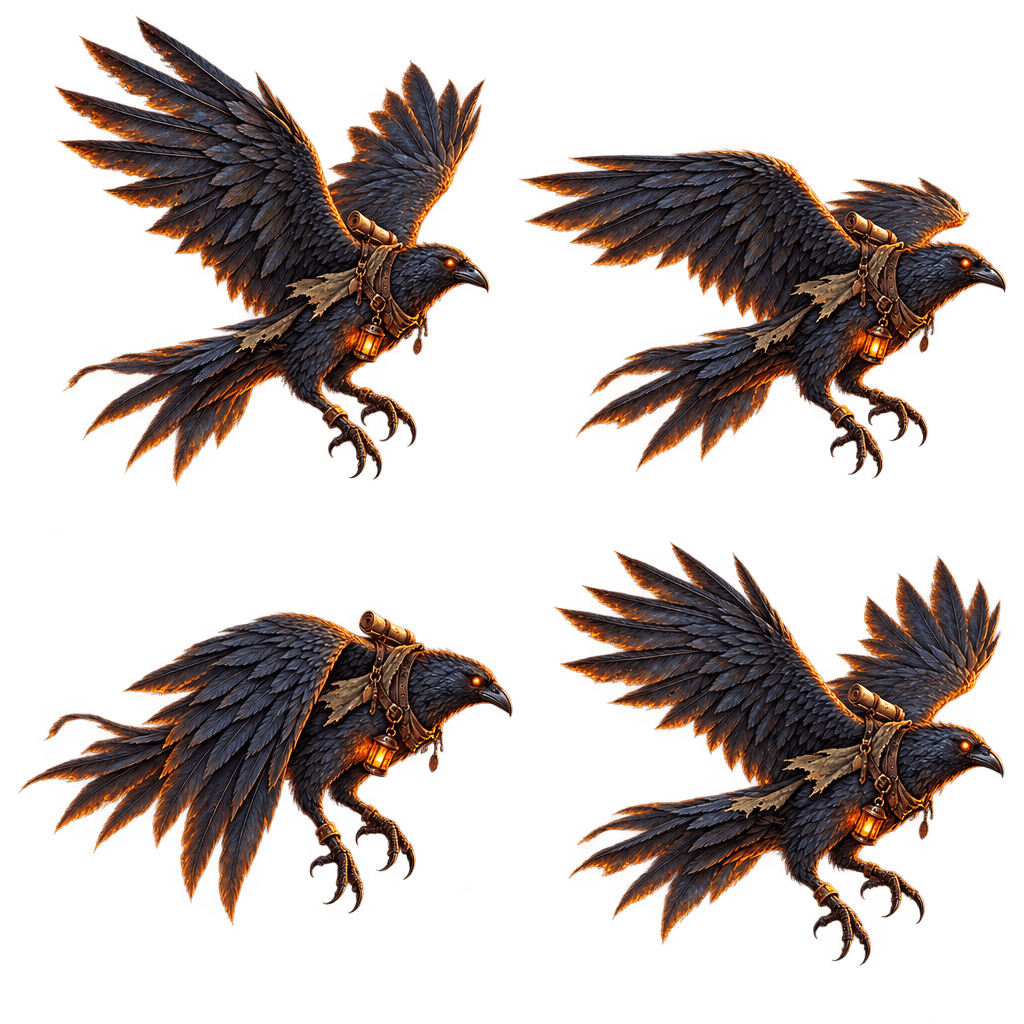
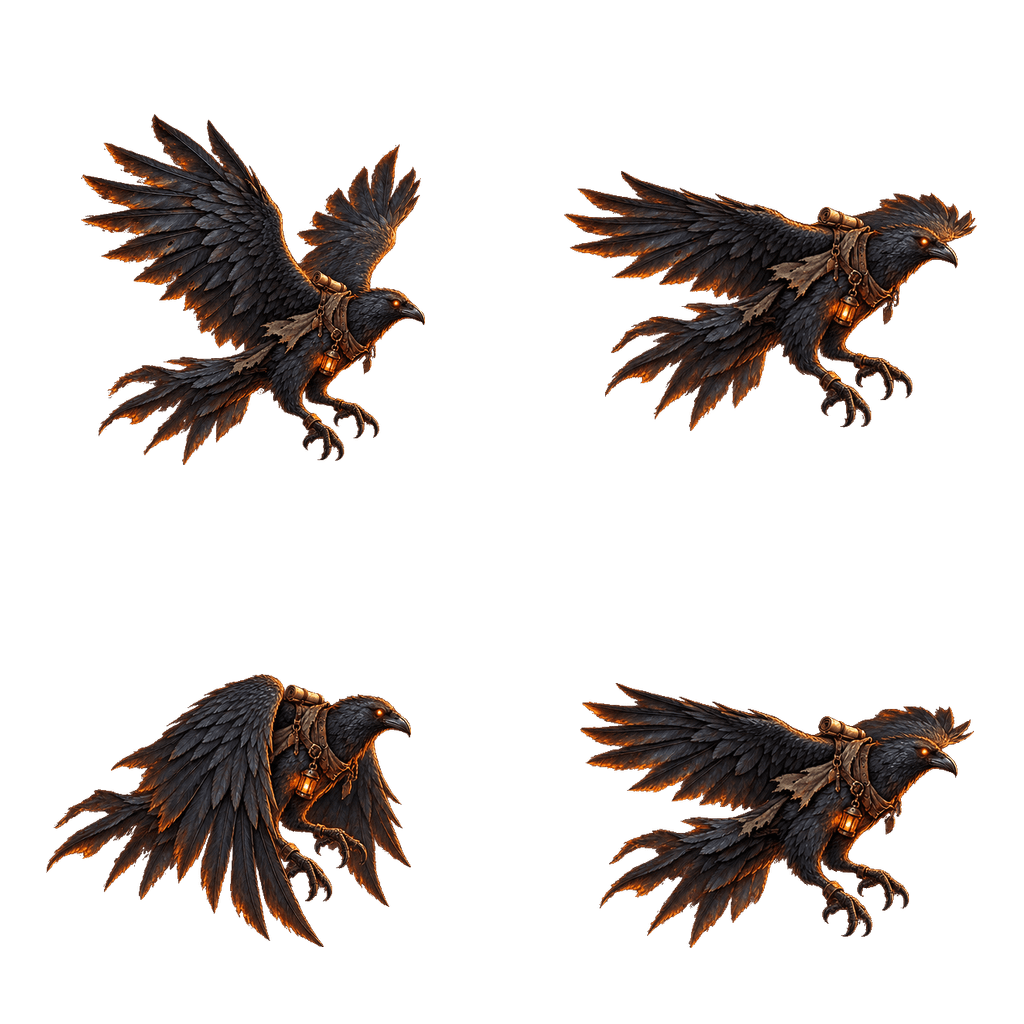
인피니티 1~10 새 그림 납품: 1~5 걷기 시트 재생성(보행 주기) · 6~9 한 장 분할 · 10 보스 역병 쥐왕 · 날것은 무게중심 기준 · 보스 크기
OpenAI 이미지 API(gpt-image-2)로 7장 생성 — 1~5 는 정지컷을 참조로 걷기 시트만 다시 뽑아 접지→통과→접지→통과
주기가 나왔고, 6~9 는 세로 한 장(4행×4열)에서 tools/sheet-split 로 나눴으며, 10 은 보스 정지컷. 이미지 출력 11,908 토큰.

- casual/enemies/inf: w001~005 걷기 시트 교체(안정화·경계 조각 제거·256색), w006~009 시트+정지컷 추가
- casual/bosses/inf/b010.png 추가, content.js INF_ART_READY = [1..10], artSizeBoss(S 96·M 108·L 120)
- game.js: 보스 새 그림은 artSizeBoss 로, 날것(move air)은 발끝 대신 무게중심 y 로 안정화(anchor)
- tools: sheet-check --anchor, sheet-split 이 content.js 로 날것 자동 판별, twoPose 는 참고 표시(정상 주기도 1≈3·2≈4),
  walk-jitter 가 날것은 무게중심 편차를 봄. README·ART-PROMPTS §6 납품 2차 기록.

검증: walk-jitter 9시트 발/무게중심 편차 0~1px, inf-art-check 1~11(새 이름·시트·보스 120px), single-smoke 실패 0.

Claude-Session: https://claude.ai/code/session_018SMyU9qspEeyGVwUHuNaor

diff --git a/game.js b/game.js
@@ -885,7 +885,7 @@ function processSheet(img, opt) {
     if (opt && opt.stabilize) for (const [cx, cy] of cells) dropEdgeFragments(id, cv.width, cx, cy, fw, fh);
     g.putImageData(id, 0, 0);
     const stats = cells.map(([cx, cy]) => cellStats(id, cv.width, cx, cy, fw, fh));
-    if (opt && opt.stabilize && stats.every(s => s.n > 0)) return stabilizeCells(cv, cells, stats, fw, fh);
+    if (opt && opt.stabilize && stats.every(s => s.n > 0)) return stabilizeCells(cv, cells, stats, fw, fh, opt.anchor);
     let u = null;
     for (const s of stats) {
       const local = { x: s.x0 - s.cx, y: s.y0 - s.cy, w: s.x1 - s.x0, h: s.y1 - s.y0 };
@@ -943,24 +943,26 @@ function dropEdgeFragments(id, W, cx, cy, fw, fh) {
 // 칸 하나의 실루엣 통계 (시트 좌표, x1·y1 배타): 바운딩박스 · 픽셀 수 n · 무게중심 mx. α>28 을 실루엣으로 본다 (bbox 와 같은 기준).
 function cellStats(id, W, cx, cy, fw, fh) {
   const d = id.data;
-  let x0 = Infinity, y0 = Infinity, x1 = -Infinity, y1 = -Infinity, n = 0, sx = 0;
+  let x0 = Infinity, y0 = Infinity, x1 = -Infinity, y1 = -Infinity, n = 0, sx = 0, sy = 0;
   const X0 = Math.floor(cx), Y0 = Math.floor(cy), X1 = Math.floor(cx + fw), Y1 = Math.floor(cy + fh);
   for (let y = Y0; y < Y1; y++) for (let x = X0; x < X1; x++) {
     if (d[(y * W + x) * 4 + 3] <= 28) continue;
-    n++; sx += x;
+    n++; sx += x; sy += y;
     if (x < x0) x0 = x; if (x + 1 > x1) x1 = x + 1; if (y < y0) y0 = y; if (y + 1 > y1) y1 = y + 1;
   }
-  if (!n) return { cx, cy, x0: X0, y0: Y0, x1: X1, y1: Y1, n: 0, mx: cx + fw / 2 };
-  return { cx, cy, x0, y0, x1, y1, n, mx: sx / n };
+  if (!n) return { cx, cy, x0: X0, y0: Y0, x1: X1, y1: Y1, n: 0, mx: cx + fw / 2, my: cy + fh / 2 };
+  return { cx, cy, x0, y0, x1, y1, n, mx: sx / n, my: sy / n };
 }
 
-function stabilizeCells(cv, cells, stats, fw, fh) {
+// anchor 'foot'(기본) = 발끝을 바닥선에 · 'center' = 무게중심 y 를 맞춤 (날것: 날개가 내려간 칸은 맨 아래가 날개 끝이라 발 기준이면 몸이 튄다)
+function stabilizeCells(cv, cells, stats, fw, fh, anchor) {
   const median = (a) => { const s = a.slice().sort((p, q) => p - q); return s[Math.floor((s.length - 1) / 2)]; };
   const area = median(stats.map(s => s.n));
   const sc = stats.map(s => Math.min(1.15, Math.max(0.87, Math.sqrt(area / s.n))));   // 실루엣 넓이 기준 크기 보정 (±15% 안)
-  const local = stats.map((s, i) => ({ x0: (s.x0 - s.cx) * sc[i], y0: (s.y0 - s.cy) * sc[i], x1: (s.x1 - s.cx) * sc[i], y1: (s.y1 - s.cy) * sc[i], mx: (s.mx - s.cx) * sc[i] }));
-  const foot = median(local.map(l => l.y1)), axis = median(local.map(l => l.mx));
-  const dx = local.map(l => axis - l.mx), dy = local.map(l => foot - l.y1);
+  const local = stats.map((s, i) => ({ x0: (s.x0 - s.cx) * sc[i], y0: (s.y0 - s.cy) * sc[i], x1: (s.x1 - s.cx) * sc[i], y1: (s.y1 - s.cy) * sc[i], mx: (s.mx - s.cx) * sc[i], my: (s.my - s.cy) * sc[i] }));
+  const ay = (l) => (anchor === 'center' ? l.my : l.y1);
+  const foot = median(local.map(ay)), axis = median(local.map(l => l.mx));
+  const dx = local.map(l => axis - l.mx), dy = local.map(l => foot - ay(l));
   let ux0 = Infinity, uy0 = Infinity, ux1 = -Infinity, uy1 = -Infinity;
   local.forEach((l, i) => { ux0 = Math.min(ux0, l.x0 + dx[i]); uy0 = Math.min(uy0, l.y0 + dy[i]); ux1 = Math.max(ux1, l.x1 + dx[i]); uy1 = Math.max(uy1, l.y1 + dy[i]); });
   const bw = Math.ceil(ux1 - ux0), bh = Math.ceil(uy1 - uy0);
@@ -990,7 +992,7 @@ async function loadAssets(onProgress) {
   if (window.DKCONTENT) {
     for (const b of DKCONTENT.bases) if (b.walk) sheets.push(b.walk);
     for (const b of DKCONTENT.bossBases) if (b.walk) sheets.push(b.walk);
-    if (DKCONTENT.INFINITY && DKCONTENT.INFINITY.artList) for (const a of DKCONTENT.INFINITY.artList()) if (a.sheet) { sheets.push(a.key); sheetOpt[a.key] = { stabilize: a.stabilize !== false }; }
+    if (DKCONTENT.INFINITY && DKCONTENT.INFINITY.artList) for (const a of DKCONTENT.INFINITY.artList()) if (a.sheet) { sheets.push(a.key); sheetOpt[a.key] = { stabilize: a.stabilize !== false, anchor: a.anchor || 'foot' }; }
   }
   // 격자는 파일명 -walk-<열>x<행> 에서 (없으면 2x2). 안정화는 인피니티 새 시트만 (content.js infArtList 의 stabilize)
   for (const k of sheets) { const m = /-walk-(\d+)x(\d+)\.png/i.exec(SRCS[k] || ''); sheetOpt[k] = Object.assign({ cols: m ? +m[1] : 2, rows: m ? +m[2] : 2 }, sheetOpt[k] || {}); }
@@ -2524,7 +2526,10 @@ function spawnEnemy(item) {
   const isBoss = !!item.isBoss;
   const INFC = window.DKCONTENT && DKCONTENT.INFINITY;
   const artOk = !!(item.art && A[item.art] && A[item.art].cv);
-  if (artOk && item.sizeClass && INFC && INFC.artSize && INFC.artSize[item.sizeClass]) def = Object.assign({}, def, { size: INFC.artSize[item.sizeClass] });   // 인피니티 새 그림: 등급별 고정 높이 (content.js artSize)
+  if (artOk && item.sizeClass && INFC && INFC.artSize && INFC.artSize[item.sizeClass]) {   // 인피니티 새 그림: 등급별 고정 높이 (content.js artSize · 보스는 artSizeBoss)
+    const tbl = isBoss && INFC.artSizeBoss && INFC.artSizeBoss[item.sizeClass] ? INFC.artSizeBoss : INFC.artSize;
+    def = Object.assign({}, def, { size: tbl[item.sizeClass] });
+  }
   else if (item.sizeClass && INFC && INFC.sizeScale) { const k = INFC.sizeScale[item.sizeClass] || 1; if (k !== 1) def = Object.assign({}, def, { size: Math.round(def.size * k) }); }
   if (item.isElite) { def = Object.assign({}, def, { size: Math.round(def.size * 1.2) }); }
   const e = {

diff --git a/content.js b/content.js
@@ -1414,7 +1414,7 @@ window.DKCONTENT = (function () {
     100: { boss: true, name: '파멸의 군주', second: '공허 용', cls: 'S', tier: 10 },
     101: { name: '종말의 사자', cls: 'M', move: 'ground', tier: 10 },
   };
-  const INF_ART_READY = new Set([1, 2, 3, 4, 5]);   // 예: [1, 2, 3, '10', '20-2'] — casual/enemies/inf/w001.png … casual/bosses/inf/b020-2.png
+  const INF_ART_READY = new Set([1, 2, 3, 4, 5, 6, 7, 8, 9, 10]);   // 예: [1, 2, 3, '10', '20-2'] — casual/enemies/inf/w001.png … casual/bosses/inf/b020-2.png
   const pad3 = (n) => String(n).padStart(3, '0');
   // 웨이브 w 의 새 그림 (준비된 것만): 일반 { key, src, walkKey, walkSrc } · 보스 k(0 군주·1 부관) { key, src, name }
   function infArt(w, k) {
@@ -1428,7 +1428,7 @@ window.DKCONTENT = (function () {
     }
     if (!INF_ART_READY.has(w) && !INF_ART_READY.has(String(w))) return null;
     // 걷기 시트 격자는 m.walk ('2x2' 4프레임 기본 · '3x2' 6프레임), 파일명에 적혀 game.js 가 읽는다. m.hop 이면 위아래 움직임이 의도된 것이라 안정화하지 않는다
-    return { key: `infW${w}`, src: `casual/enemies/inf/w${pad3(w)}.png`, walkKey: `infW${w}Walk`, walkSrc: `casual/enemies/inf/w${pad3(w)}-walk-${m.walk || '2x2'}.png`, name: m.name, stabilize: !m.hop };
+    return { key: `infW${w}`, src: `casual/enemies/inf/w${pad3(w)}.png`, walkKey: `infW${w}Walk`, walkSrc: `casual/enemies/inf/w${pad3(w)}-walk-${m.walk || '2x2'}.png`, name: m.name, stabilize: !m.hop, anchor: m.move === 'air' ? 'center' : 'foot' };
   }
   // 로더용: 준비된 새 그림 전부 [{ key, src }, { key(walk), src, sheet: true }]
   function infArtList() {
@@ -1438,7 +1438,7 @@ window.DKCONTENT = (function () {
       if (m.boss) { for (let k = 0; k < 2; k++) { const a = infArt(w, k); if (a) out.push({ key: a.key, src: a.src }); } continue; }
       const a = infArt(w, 0); if (!a) continue;
       out.push({ key: a.key, src: a.src });
-      out.push({ key: a.walkKey, src: a.walkSrc, sheet: true, optional: true, stabilize: a.stabilize });
+      out.push({ key: a.walkKey, src: a.walkSrc, sheet: true, optional: true, stabilize: a.stabilize, anchor: a.anchor });
     }
     return out;
   }
@@ -1479,6 +1479,7 @@ window.DKCONTENT = (function () {
     sizeScale: { S: 0.9, M: 1, L: 1.15 },
     // 새 그림(INF_ART_READY, 반실사 다크 판타지)은 base 의 크기와 무관하게 등급별 고정 높이(캔버스 px) — 실루엣이 가늘어 기존 만화 로스터(40~55)보다 작게 읽혀서 위쪽 값으로 맞춘다
     artSize: { S: 42, M: 50, L: 58 },
+    artSizeBoss: { S: 96, M: 108, L: 120 },   // 새 보스 정지컷(casual/bosses/inf/bNNN.png, 뼈 더미 같은 받침까지 한 장) — 구 보스 86~92px 보다 크게
     // 원작 1~101R 몬스터 크기 표 그대로 (보스 라운드 포함). 웨이브 w 의 크기 = sizeSeq[(w-1)%101]
     sizeSeq: ('SSLSMLLSLL' + 'SLSLMLMSLL' + 'SLSSMSLLLS' + 'SSSLLLMSMS' + 'LMLLLSMLSL' + 'LSMSLLLSML' + 'MSSMLLSSLS' + 'LSLSSSSLMM' + 'SMLLSSLSLL' + 'SSLLMSLMLSM').split(''),
     sizeOf(w) { return this.sizeSeq[(Math.max(1, w) - 1) % this.sizeSeq.length]; },

diff --git a/tools/e2e/walk-jitter.js b/tools/e2e/walk-jitter.js
@@ -17,7 +17,10 @@ const { chromium } = require('playwright-core');
         return { w: f.w, h: f.h, foot: y1 + 1, top: y0, mx: sx / n, height: y1 - y0 + 1, n };
       });
       const span = (a) => Math.max(...a) - Math.min(...a);
-      out.push({ key: k, dims: `${fr[0].w}×${fr[0].h}`, foot: span(fr.map((f) => f.foot)), mx: span(fr.map((f) => f.mx)), height: span(fr.map((f) => f.height)), area: span(fr.map((f) => f.n)) / Math.max(...fr.map((f) => f.n)), fh: fr[0].h });
+      // 날것(move 'air')은 무게중심 y 기준으로 맞추므로 발 대신 무게중심 y 편차를 본다
+      const w = +(/^infW(\d+)Walk$/.exec(k)[1]), mon = DKCONTENT.INFINITY.monsters[w], air = !!(mon && mon.move === 'air');
+      const my = (f) => { const g = f.cv.getContext('2d'), d = g.getImageData(0, 0, f.w, f.h).data; let n = 0, s = 0; for (let y = 0; y < f.h; y++) for (let x = 0; x < f.w; x++) if (d[(y * f.w + x) * 4 + 3] > 28) { n++; s += y; } return s / n; };
+      out.push({ key: k, air, dims: `${fr[0].w}×${fr[0].h}`, foot: air ? span(DKA[k].map(my)) : span(fr.map((f) => f.foot)), mx: span(fr.map((f) => f.mx)), height: span(fr.map((f) => f.height)), area: span(fr.map((f) => f.n)) / Math.max(...fr.map((f) => f.n)), fh: fr[0].h });
     }
     return out;
   });
@@ -25,7 +28,7 @@ const { chromium } = require('playwright-core');
   for (const r of rows) {
     const bad = r.foot / r.fh > 0.02 || r.mx / r.fh > 0.02;
     if (bad) fail++;
-    console.log(`${r.key} ${r.dims}: 발 y 편차 ${r.foot}px · 중심 x 편차 ${r.mx.toFixed(1)}px · 높이 편차 ${r.height}px · 넓이 편차 ${(r.area * 100).toFixed(0)}%${bad ? '  ← 흔들림' : '  · 안정'}`);
+    console.log(`${r.key} ${r.dims}: ${r.air ? '무게중심 y' : '발 y'} 편차 ${r.foot.toFixed(1)}px · 중심 x 편차 ${r.mx.toFixed(1)}px · 높이 편차 ${r.height}px · 넓이 편차 ${(r.area * 100).toFixed(0)}%${bad ? '  ← 흔들림' : '  · 안정'}`);
   }
   await b.close();
   process.exit(fail ? 1 : 0);

diff --git a/README.md b/README.md
@@ -135,6 +135,8 @@ node tools/sheet-check.mjs gen/inf/w001-walk-1.png --sheet-out=casual/enemies/in
 - **걷기 주기**: 프롬프트가 프레임마다 자세를 지정한다 — 접지(오른발 앞) → 통과(뒷다리가 몸 아래로) → 접지(왼발 앞) → 통과. 네발은 대각 속보, 날것은 날개 위·수평·아래·수평, 뱀은 S자 이동, 유령은 제자리 부유(`inf-roster.json` `gait`). 머리·몸통·장비·크기는 모든 칸에서 같고 발은 같은 바닥선, 칸의 65% 이하·여백 15%.
 - **안정화**: 그래도 칸마다 크기·발 위치·가로 위치가 조금씩 어긋나므로(높이 10~30%, 발 5~15%) `sheet-check`/`sheet-split` 이 실루엣 넓이로 크기를 ±15% 안에서 맞추고 발끝을 공통 바닥선에, 무게중심을 공통 축에 맞춰 다시 굽는다. 이웃 칸에서 넘어온 창끝 같은 경계 조각(실루엣 3% 미만)은 지운다. `game.js processSheet` 도 같은 규칙으로 인피니티 시트를 맞추므로 예전에 넣은 시트도 흔들리지 않는다. 확인: `tools/e2e/walk-jitter.js`(발·중심 편차 0~1px), 자세 판정 `static`(안 걷음)·`twoPose`(두 자세 반복)가 뜨면 다시 뽑는다.
 - **한 장에 여러 마리(`--mode=multi`)**: 세로 1024×1536 에 5행(몬스터) × 4열(프레임), 칸 256×307. 게임은 42~58px(3배 DPR 174px)로 그리므로 충분하고 이미지 값이 몬스터당 약 1/5 로 준다. 대신 한 행이 나쁘면 그 장을 통째로 다시 뽑는다 — L 등급이 많은 단계나 세부가 중요한 보스는 `--mode=single`. 정지컷은 시트 1칸(접지 자세)에서 자르므로 정지컷 잡은 따로 없다. `n` 은 기본 1 (후보 2장은 값도 2배).
+- **날것·보스**: 날것(`move: 'air'`)은 날개가 내려간 칸의 맨 아래가 발이 아니라 날개 끝이므로 발끝 대신 **무게중심 y** 로 맞춘다(`sheet-check --anchor=center`, `sheet-split` 은 content.js 를 읽어 자동, 게임 로더도 동일). 보스는 걷기 시트 없이 정지컷 1장(`casual/bosses/inf/bNNN.png`, 1024² 팔레트 PNG)이고 `INFINITY.artSizeBoss`(S 96 · M 108 · L 120)로 그린다.
+- **2026-09-07 납품 (`gpt-image-2`, 7장 ≈ 이미지 출력 11,908 토큰)**: 1~5 걷기 시트 재생성(정지컷 참조, 접지→통과→접지→통과 주기 확인), 6~9 는 한 장(1024×1536, 4행×4열)에서 분할, 10 보스 역병 쥐왕 정지컷. `INF_ART_READY = [1..10]`.
 - **단계 팔레트**: 10웨이브마다 색이 조금씩 바뀐다 — 전부 악당 톤(붉은·검은·보라 계열, 밝은 색·파스텔 금지). `content.js INF_PALETTE`(`INFINITY.paletteOf(w)`) 가 원본이고 생성기가 프롬프트 끝에 붙인다. 1단계 핏빛 녹·잿빛 → 2 검은 털·먹빛 초록 → 3 탁한 청록·검보라 → 4 와인빛 자주·검은 가죽 → 5 검푸른 강철·검붉은 휘장 → 6 창백한 뼈·검보라 → 7 짙은 보라·자수정 → 8 검붉은 비늘·흑요석 → 9 지옥의 진홍·검은 뿔 → 10 심연의 검정·보라 공허.
 - 프록시 환경(Claude Code 클라우드 등)에서는 Node 내장 fetch 가 `HTTPS_PROXY` 를 안 읽으므로 `NODE_USE_ENV_PROXY=1` 을 함께 준다.
 - 모델은 `gpt-image-*` 중 최신을 고른다(`--model=` 로 고정 가능). `gpt-image-2` 는 `input_fidelity` 를 받지 않아 스크립트가 알아서 뺀다.

diff --git a/ART-PROMPTS.md b/ART-PROMPTS.md
@@ -249,6 +249,9 @@ Hand-painted casual tower defense arena FLOOR ONLY, Kingdom Rush and Random Dice
 > - **안정화**: 그래도 칸마다 크기(높이 10~30%)·발 위치(5~15%)·가로 위치가 어긋나 재생하면 '커졌다 작아졌다·앞뒤로 미끄러짐' 으로 보인다. `sheet-check`·`sheet-split` 이 실루엣 넓이로 크기를 ±15% 안에서 맞추고 발끝을 공통 바닥선에, 무게중심 x 를 공통 축에 맞춰 다시 굽는다. 이웃 칸에서 넘어온 창끝 같은 경계 조각(실루엣 3% 미만)은 지운다. `game.js processSheet` 도 같은 규칙으로 인피니티 시트를 맞춘다(이미 넣은 1~5 도 흔들리지 않음). 확인 `tools/e2e/walk-jitter.js`. 자세 판정 `static`·`twoPose` 가 뜨면 그 시트(행)만 다시 뽑는다.
 > - **한 장에 여러 마리(`--mode=multi`)**: 세로 1024×1536 에 5행 × 4열, 칸 256×307 — 게임은 42~58px(3배 DPR 174px)로 그리므로 충분. 한 행이 나쁘면 그 장을 다시 뽑는다. L 등급이 많은 단계·보스·세부가 중요한 것은 `--mode=single`(2x2 1024², 6프레임은 3x2 1536×1024). 정지컷은 시트 1칸(접지)에서 자르므로 정지컷 잡은 따로 없다. `n` 기본 1.
 > - **단계 팔레트**(10웨이브마다 색이 조금씩 바뀐다, 전부 악당 톤·밝은 색 금지): 아래 표의 팔레트 열 = `content.js INF_PALETTE`. 생성기가 프롬프트 끝에 "Palette of this tier: …, overall dark and desaturated, no bright/pastel/neon" 을 붙인다.
+> - **날것·보스**: 날것은 발끝 대신 무게중심 y 로 맞춘다(`--anchor=center`, `sheet-split`·게임 로더는 `move: 'air'` 로 자동). 보스는 정지컷 1장 `casual/bosses/inf/bNNN.png`(부관 `-2`), 크기 `INFINITY.artSizeBoss`(S 96 · M 108 · L 120).
+>
+> **2026-09-07 납품 2차 — 1~5 걷기 시트 재생성 + 6~10 (`gpt-image-2`, 7장, 이미지 출력 11,908 토큰)**: 1~5 는 정지컷을 참조로 시트만 다시 뽑아 접지→통과→접지→통과 주기가 나왔고(자세 IoU 1≈3·2≈4 는 정상), 6~9 는 세로 한 장(4행×4열, 칸 256×384)에서 `sheet-split` 로 나눴다(편차 높이 0~14% · 발 0~1%). 10 보스 역병 쥐왕 정지컷. 생성물 배경은 알파 투명(RGB 에 갈색이 깔려 있지만 게임·도구는 알파를 쓴다). `INF_ART_READY = [1..10]`.
 >
 > 키아트: `node tools/img-gen.mjs tools/jobs/keyart.json` → `node tools/keyart-build.mjs --portrait=gen/keyart/portrait-1.png --landscape=gen/keyart/landscape-1.png`. 키는 환경변수로만, 파일에 쓰지 않는다.
 >
